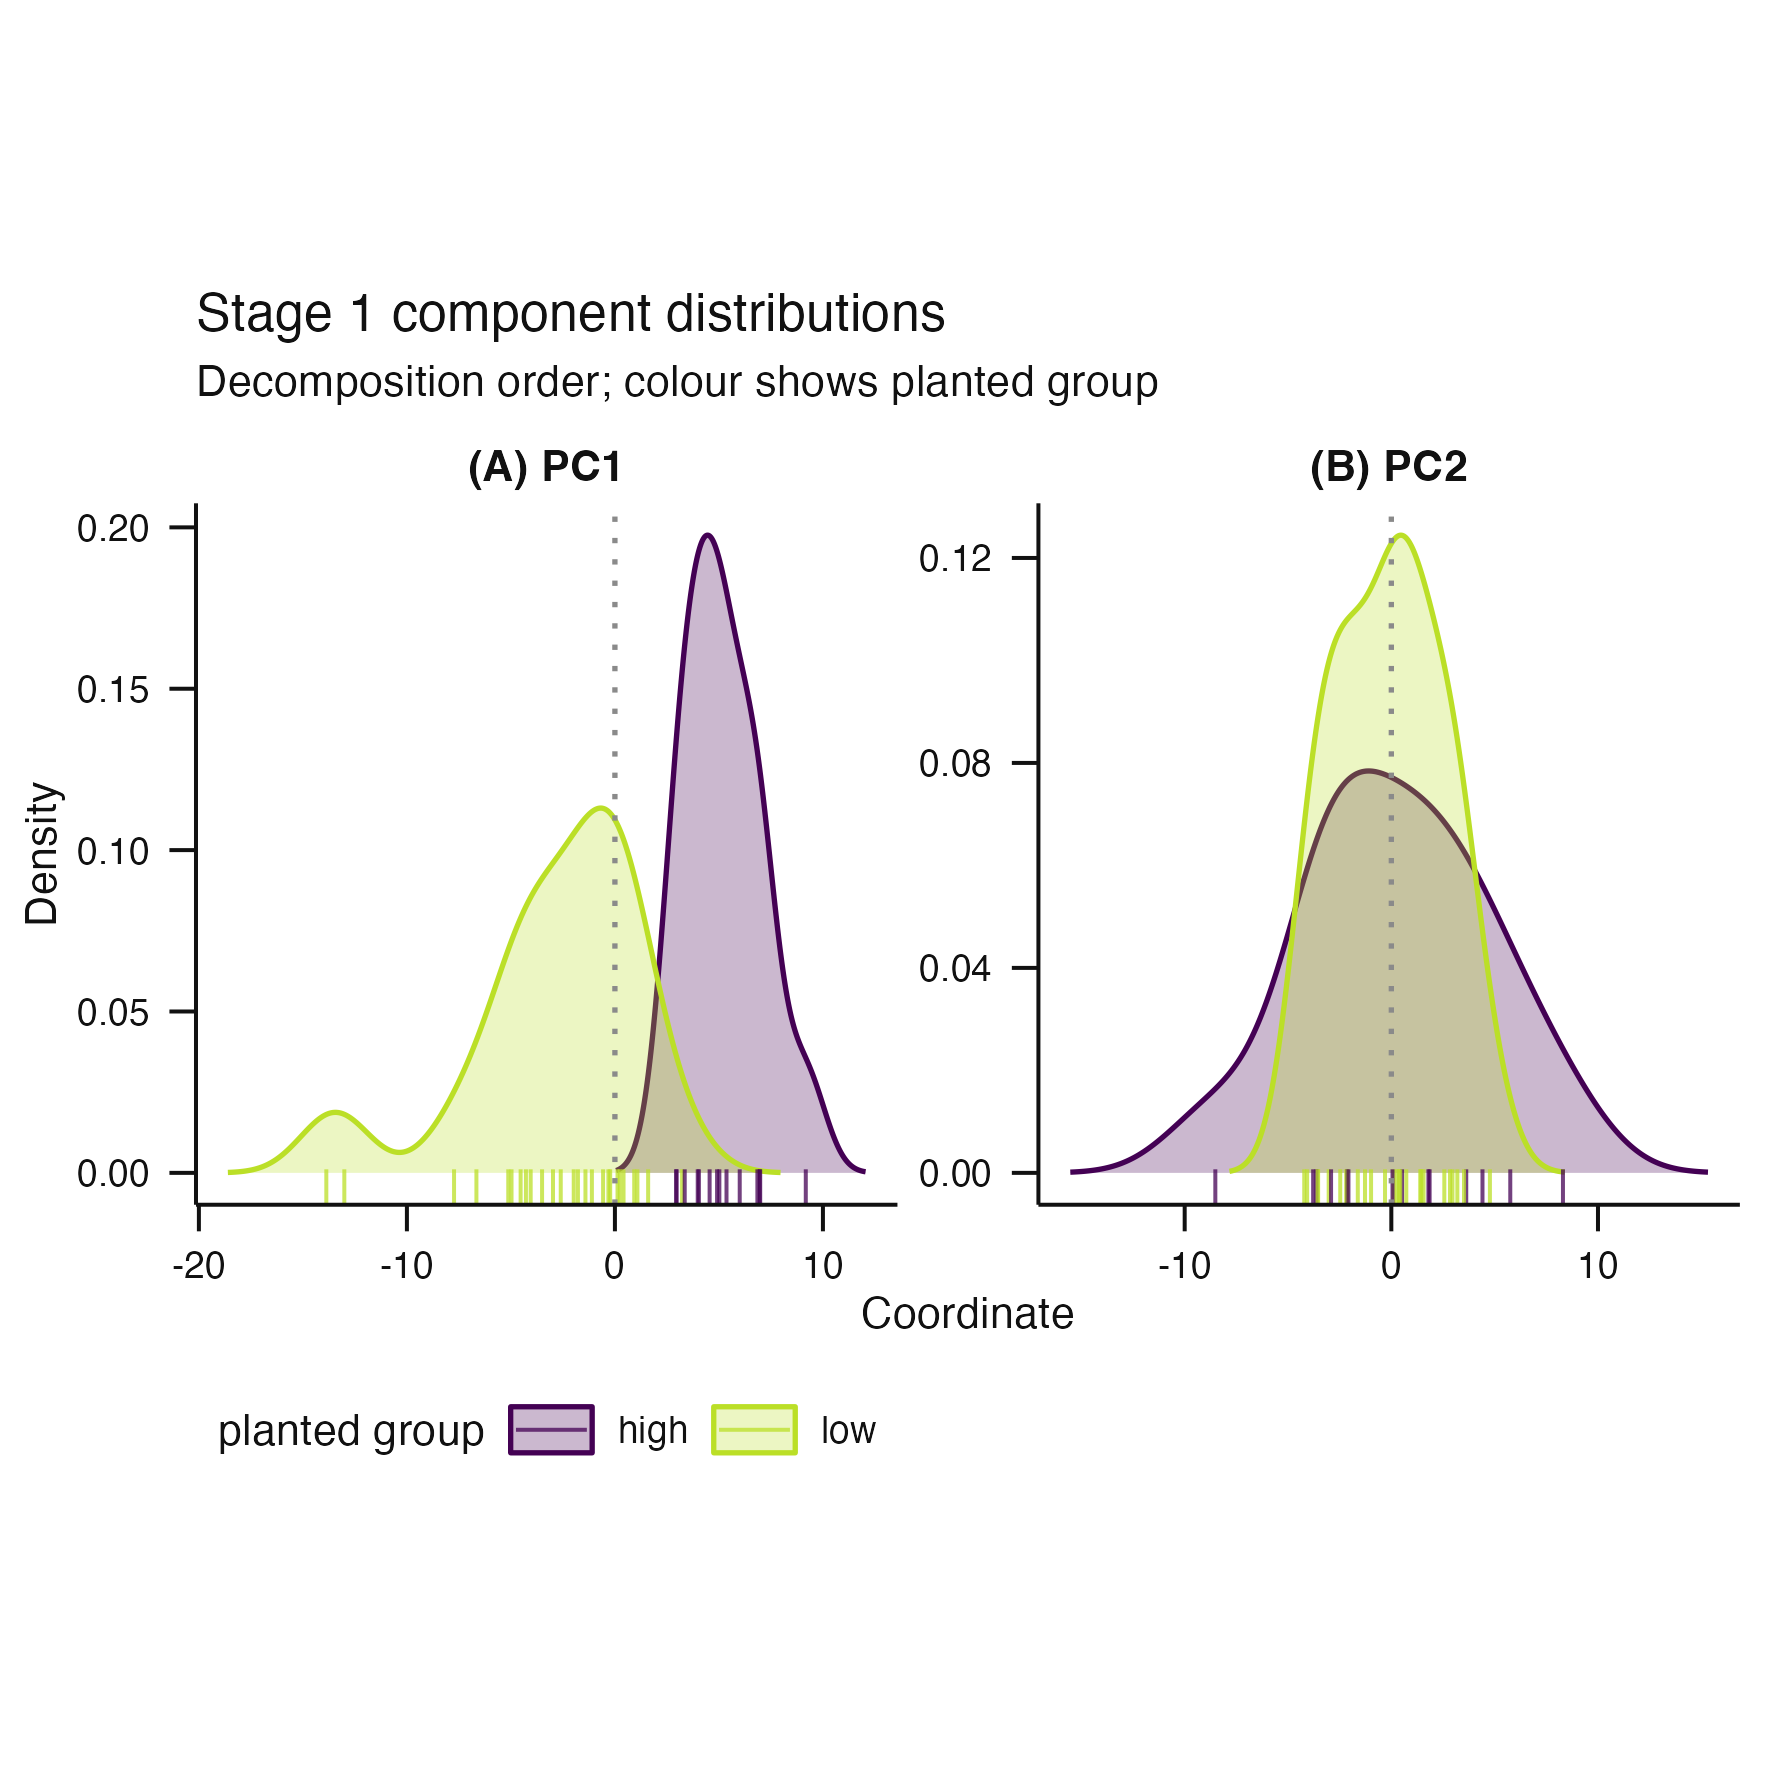
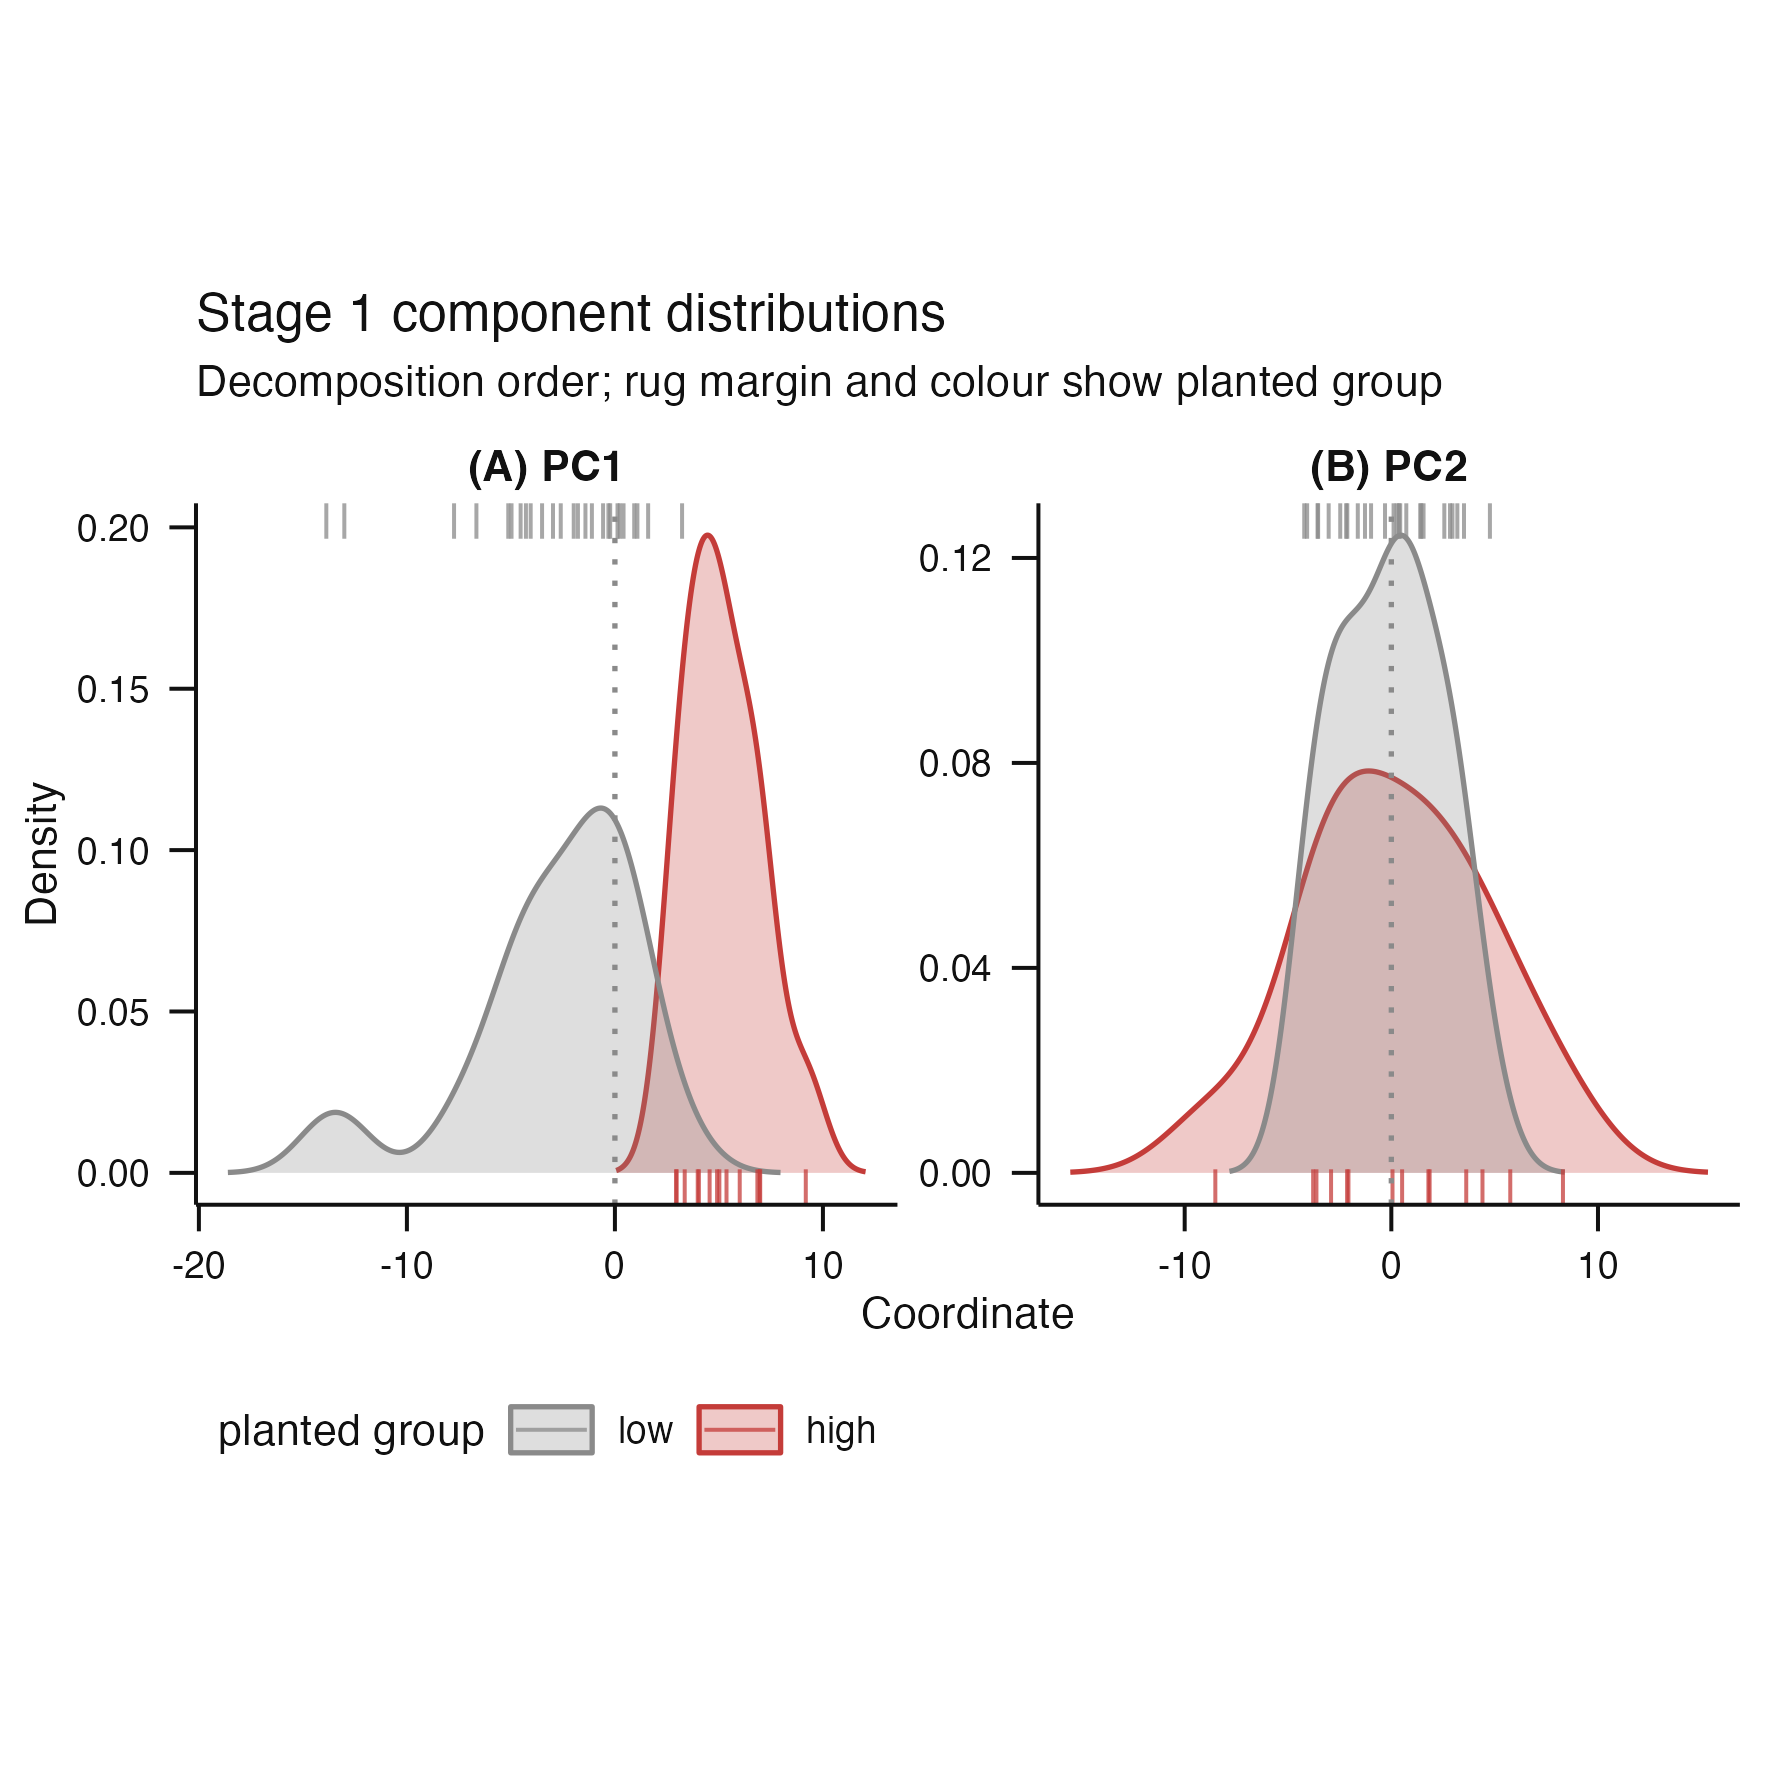
Carry accessible Stage 1 and Stage 2 proofs into contact sheet

diff --git a/scripts/check-issue-226-contact-sheet.py b/scripts/check-issue-226-contact-sheet.py
@@ -125,6 +125,10 @@ def check_contact_sheet_contract(repo_root: Path) -> list[str]:
         raise ValueError("renderer does not enforce concise, subtitle-free tile labels")
     if "public-plot-contact-sheet-reduced.png" not in script_text:
         raise ValueError("renderer does not generate the reduced contact-sheet QA artifact")
+    if 'reference_level = "low"' not in script_text or 'focal_level = "high"' not in script_text:
+        raise ValueError(
+            "renderer does not declare the binary reference/focal palette for Stage 1/2 proofs"
+        )
 
     for row in included:
         for column in ("figure", "caption"):

diff --git a/.github/landing-proof/issue-232/README.md b/.github/landing-proof/issue-232/README.md
@@ -6,17 +6,16 @@ collided across tile boundaries at reduced reading size.
 The after image uses concise tile-local labels and suppresses only the
 underlying plot subtitles in the audit sheet. Full scientific captions remain
 in the issue #226 inventory and separate caption files.
-The retained Stage 1 and Stage 2 figures and captions are synchronized with the
-recent accessible-encoding plot update already present on `main`.
-Other retained #226 figures and inventory rows are intentionally unchanged by
-#232; this proof does not regenerate unrelated scientific figures.
+
+The retained Stage 1 and Stage 2 figures and captions are regenerated from
+the same renderer, including the declared low reference and high focal
+palette used by the public plot functions. Other issue #226 families are
+intentionally not regenerated by this proof.
 
 The reduced after image is the required smaller-dimension QA render. The
 label manifest records the bounded text budget checked by the renderer and
-contract checker. The checker cannot prove pixel-level separation, so direct
-visual inspection of the native and reduced renders is a required QA step.
-Inspect both after images for tile isolation, label legibility, clipping, and
-legend collisions.
+contract checker. Inspect both after images for tile isolation, label
+legibility, clipping, and legend collisions.
 
 Reproduce with:
 
